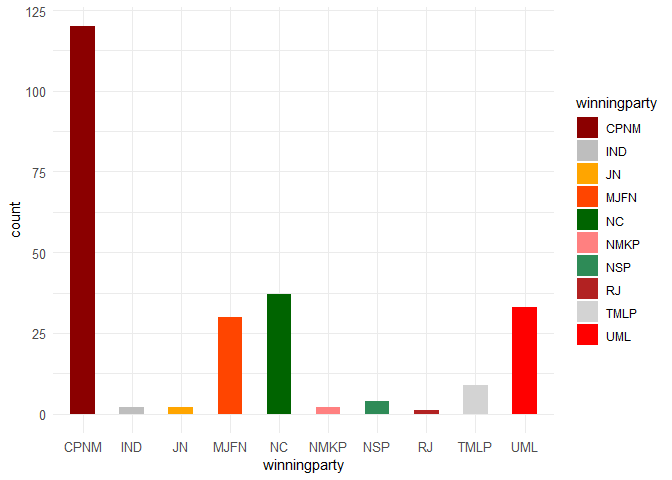
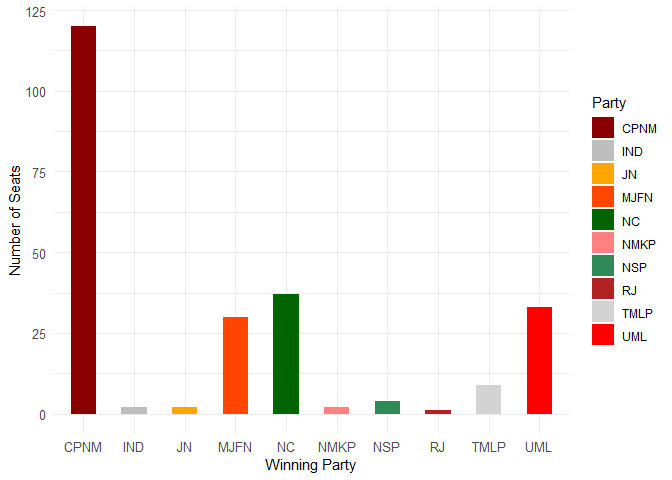
fixed plot legends

diff --git a/README.md b/README.md
@@ -92,8 +92,8 @@ of the winning candidate in each electoral district.
 
 ``` r
 ggplot(df, aes(winnerage, maovote, colour = winnergender)) + 
-  geom_point() + 
-  geom_smooth(method=lm, se=FALSE)
+  geom_point() +  
+  geom_smooth(method=lm, se=FALSE) + labs(x = "Age of Winning Candidate", y = "Maoist Vote", color = "Gender")
 ```
 
 ![](README_files/figure-gfm/unnamed-chunk-4-1.png)<!-- -->
@@ -107,7 +107,7 @@ electoral districts with male winners.
 ``` r
 ggplot(df, aes(winnerage, turnout, colour = winnergender)) + 
   geom_point() + 
-  geom_smooth(method=lm, se=FALSE)
+  geom_smooth(method=lm, se=FALSE) + labs(x = "Age of Winning Candidate", y = "Turnout", color = "Gender")
 ```
 
 ![](README_files/figure-gfm/unnamed-chunk-5-1.png)<!-- -->
@@ -122,7 +122,7 @@ men and women.
 ``` r
 ggplot(df, aes(candidate_avgage, maovote, colour = winnergender)) + 
   geom_point() + 
-  geom_smooth(method=lm, se=FALSE)
+  geom_smooth(method=lm, se=FALSE) + labs(x = "Average Age of Candidate", y = "Maoist Vote", color = "Gender")
 ```
 
 ![](README_files/figure-gfm/unnamed-chunk-6-1.png)<!-- -->
@@ -136,7 +136,7 @@ districts were women.
 
 ``` r
 ggplot(df, aes(winnergender, fill=winnergender)) + 
-  geom_bar(width = 0.5) + theme_minimal() 
+  geom_bar(width = 0.5) + theme_minimal() + labs(x = "Gender of Winning Candidates", y = "Number of Winning Candidates", fill = "Gender")
 ```
 
 ![](README_files/figure-gfm/unnamed-chunk-7-1.png)<!-- -->
@@ -158,25 +158,26 @@ by men.
 ``` r
 ggplot(df, aes(civdeath_gov, maovote, colour = winnergender)) + 
   geom_point() + 
-  geom_smooth(method=lm, se=FALSE)
+  geom_smooth(method=lm, se=FALSE) + labs(x = "Civilian Deaths Perpetrated by Government Forces", y = "Maoist Vote", color = "Gender")
 ```
 
-![](README_files/figure-gfm/unnamed-chunk-8-1.png)<!-- --> It is also
-prudent to examine the relationship between turnout and Maoist support.
-Election observers like the Carter Center noted that the Maoists engaged
-in the intimidation and harassment of their opponents in the days
-leading up to the polls, but that the election itself took place in
-reasonably tranquil conditions. Here, we can see that regardless of
-gender, the Maoists performed better in electoral districts where fewer
-eligible voters turned out. There appears to be a stronger negative
-relationship between turnout and Maoist electoral performance for
-constituencies where women were victorious versus those won by male
-candidates.
+![](README_files/figure-gfm/unnamed-chunk-8-1.png)<!-- -->
+
+It is also prudent to observe the relationship between turnout and
+Maoist support. Election observers like the Carter Center noted that the
+Maoists engaged in the intimidation and harassment of their opponents in
+the days leading up to the polls, but that the election itself took
+place in reasonably tranquil conditions. Here, we can see that
+regardless of gender, the Maoists performed better in electoral
+districts where fewer eligible voters turned out. There appears to be a
+stronger negative relationship between turnout and Maoist electoral
+performance for constituencies where women were victorious versus those
+won by male candidates.
 
 ``` r
 ggplot(df, aes(turnout, maovote, colour = winnergender)) + 
   geom_point() + 
-  geom_smooth(method=lm, se=FALSE)
+  geom_smooth(method=lm, se=FALSE) + labs(x = "Turnout", y = "Maoist Vote", color = "Gender")
 ```
 
 ![](README_files/figure-gfm/unnamed-chunk-9-1.png)<!-- -->
@@ -187,36 +188,37 @@ ggplot(df, aes(turnout, maovote, colour = winnergender)) +
 ggplot(df, aes(x = winningparty, fill=winningparty)) + 
   geom_bar(width = 0.5) + theme_minimal() +
   scale_fill_manual(values = c("darkred", "grey", "orange", "orangered", "darkgreen" , "#ff8080" , "seagreen" , "firebrick" , "lightgrey" , "red"))+ 
-  theme(axis.text=element_text(size=10)) 
+  theme(axis.text=element_text(size=10)) + labs(x = "Winning Party", y = "Number of Seats", fill = "Party")
 ```
 
 ![](README_files/figure-gfm/unnamed-chunk-10-1.png)<!-- -->
 
-Let’s calculate the effective number of parties per electoral district.
 
-``` r
+    Let's calculate the effective number of parties per electoral district. 
 
-df2 <- read.csv("partylistresults.csv")
 
-# Extract the relevant columns containing the p values
-p_values <- df2[, -(1:4)]  # Assuming the first column contains row identifiers, adjust if needed
+    ```r
 
-# Function to calculate N for each row
-calculate_N <- function(row) {
-  sum_squares <- sum(row^2)
-  N <- 1 / sum_squares
-  return(N)
-}
+    df2 <- read.csv("partylistresults.csv")
 
-# Calculate N for each row
-N_values <- apply(p_values, 1, calculate_N)
+    # Extract the relevant columns containing the p values
+    p_values <- df2[, -(1:4)]  # Assuming the first column contains row identifiers, adjust if needed
 
-# Add N values to the original data frame
-df2 <- cbind(df2[, 4], N = N_values)
+    # Function to calculate N for each row
+    calculate_N <- function(row) {
+      sum_squares <- sum(row^2)
+      N <- 1 / sum_squares
+      return(N)
+    }
 
-# Print or export the resulting data frame with N values
-kable(head(df2))
-```
+    # Calculate N for each row
+    N_values <- apply(p_values, 1, calculate_N)
+
+    # Add N values to the original data frame
+    df2 <- cbind(df2[, 4], N = N_values)
+
+    # Print or export the resulting data frame with N values
+    kable(head(df2))
 
 |                | N                |
 |:---------------|:-----------------|
@@ -239,7 +241,7 @@ df4 <- read.csv("completedata.csv")
 ggplot(df3, aes(df4$turnout, N, colour = df4$winnergender)) + 
   geom_point() + 
   geom_smooth(method=lm, se=FALSE) +
-  theme(axis.text = element_text(size = 6)) + labs(title = "Effective Number of Parties and Turnout" , x = "Turnout" , y = "Effective Number of Parties")
+  theme(axis.text = element_text(size = 6)) + labs(title = "Effective Number of Parties and Turnout" , x = "Turnout" , y = "Effective Number of Parties", color = "Gender")
 ```
 
 ![](README_files/figure-gfm/unnamed-chunk-12-1.png)<!-- -->
